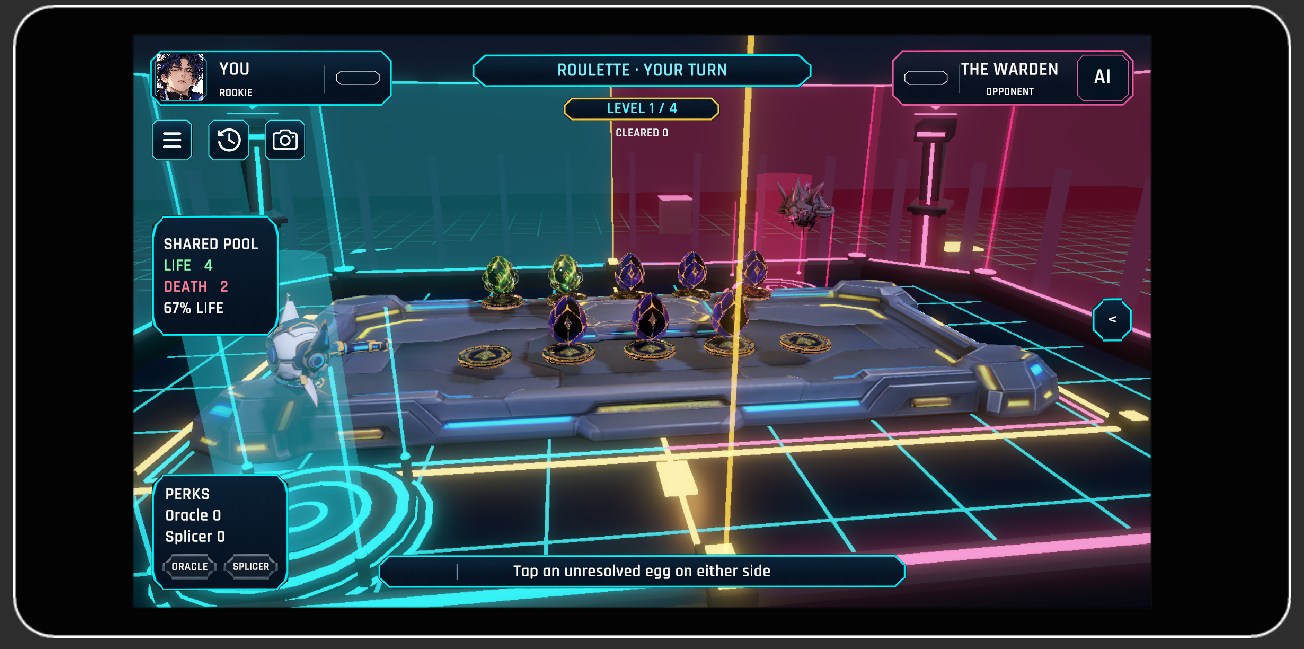
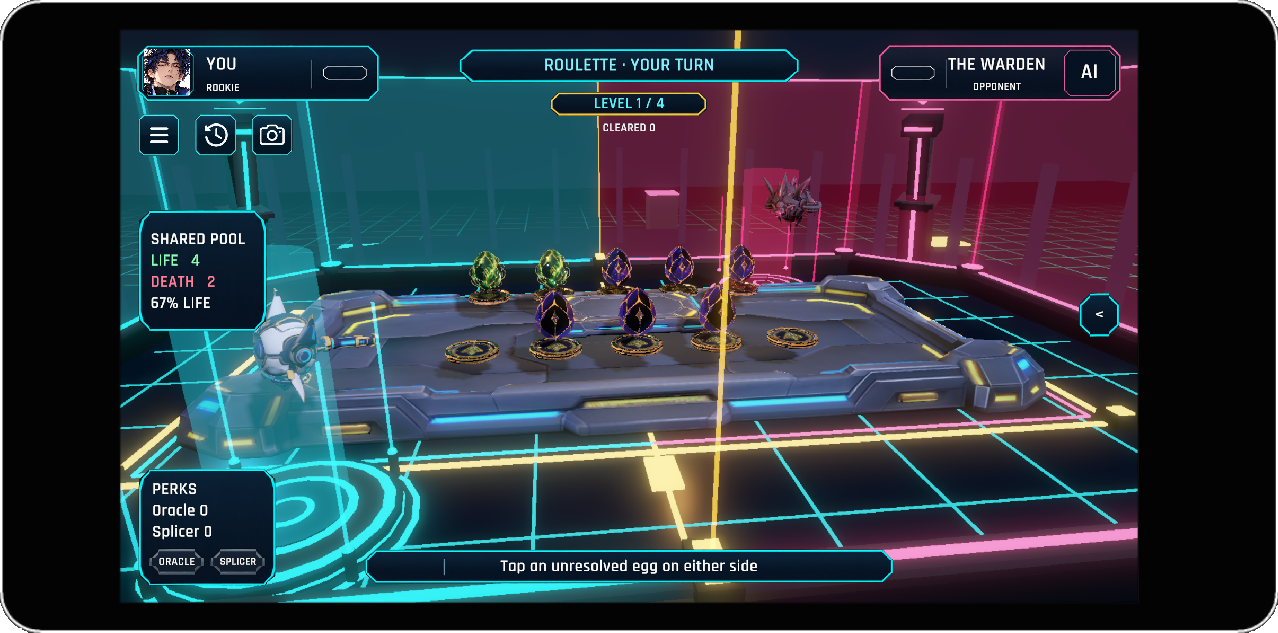
Genesis Roulette: remove grey around phone-frame progress images
Crop the gameplay screenshot and GIF to the phone frame, clear the grey
outside the rounded border, and size each progress image to its own
aspect ratio so it no longer sits in a grey letterboxed box.

diff --git a/src/lib/project-stories.ts b/src/lib/project-stories.ts
@@ -10,7 +10,7 @@ export type ProjectStory = {
   previewArtwork?: { src: string; alt: string; fit?: "cover" | "contain" }[];
   platforms?: { icon: string; label: string }[];
   pillars: { title: string; text: string }[];
-  roadmap: { title: string; text: string; image?: string; alt?: string; position?: string; subtitle?: string; detail?: string; status?: string; caption?: string }[];
+  roadmap: { title: string; text: string; image?: string; alt?: string; position?: string; subtitle?: string; detail?: string; status?: string; caption?: string; ratio?: string; frameless?: boolean }[];
 };
 
 export const projectStories: Record<string, ProjectStory> = {
@@ -39,9 +39,9 @@ export const projectStories: Record<string, ProjectStory> = {
       { title: "A world with stakes", text: "Neptune, 3100. As The Ending draws closer, rival scientists settle real disputes at the Bench, and your hero starts at the very bottom." },
     ],
     roadmap: [
-      { title: "The First Roll", subtitle: "Concept & First Prototype", status: "COMPLETE", text: "Genesis Roulette began as a duel built on chance: a row of identical eggs, a hidden deck of Life and Death bullets, and an element cycle of Fire, Water and Nature.", detail: "This stage shaped the core rules and design pillars that the game is built on.", image: "/images/projects/genesis-roulette-progress-01.png", alt: "Genesis Roulette gameplay on a phone: a roulette turn against The Warden, with the egg table, the shared Life and Death pool and perks" },
-      { title: "Rebuilt for Mobile", subtitle: "Unity Production & Core Systems", status: "COMPLETE", text: "The game moved to Unity and was rebuilt for Android phones in landscape. The rules, opponents, saving, a 4-chapter Story and a 10-level Arcade ladder are in place.", detail: "Button Smash, the Esports Coliseum with its drones, six element monsters, the main menu, player profile, missions and online private rooms were added along the way.", image: "/images/projects/genesis-roulette-progress-02.gif", alt: "Looping capture of Genesis Roulette gameplay: roulette turns, element assignment and a Button Smash" },
-      { title: "Into Testers’ Hands", subtitle: "Closed Alpha & Internal Game Testing", status: "IN PROGRESS", text: "The closed alpha is now being tested on Android by invited testers with access codes. Players can take on the Story, the Arcade ladder and online matches against a friend.", detail: "Testing focuses on match feel, balance, stability and performance on phones. A tester should be able to finish a full Story run, a full Arcade run and an online match without a crash.", image: "/images/projects/genesis-roulette-progress-03.png", alt: "Genesis Roulette tester access screen asking for an access code" },
+      { title: "The First Roll", subtitle: "Concept & First Prototype", status: "COMPLETE", text: "Genesis Roulette began as a duel built on chance: a row of identical eggs, a hidden deck of Life and Death bullets, and an element cycle of Fire, Water and Nature.", detail: "This stage shaped the core rules and design pillars that the game is built on.", image: "/images/projects/genesis-roulette-progress-01.png", alt: "Genesis Roulette gameplay on a phone: a roulette turn against The Warden, with the egg table, the shared Life and Death pool and perks", ratio: "1278 / 633", frameless: true },
+      { title: "Rebuilt for Mobile", subtitle: "Unity Production & Core Systems", status: "COMPLETE", text: "The game moved to Unity and was rebuilt for Android phones in landscape. The rules, opponents, saving, a 4-chapter Story and a 10-level Arcade ladder are in place.", detail: "Button Smash, the Esports Coliseum with its drones, six element monsters, the main menu, player profile, missions and online private rooms were added along the way.", image: "/images/projects/genesis-roulette-progress-02.gif", alt: "Looping capture of Genesis Roulette gameplay: roulette turns, element assignment and a Button Smash", ratio: "480 / 238", frameless: true },
+      { title: "Into Testers’ Hands", subtitle: "Closed Alpha & Internal Game Testing", status: "IN PROGRESS", text: "The closed alpha is now being tested on Android by invited testers with access codes. Players can take on the Story, the Arcade ladder and online matches against a friend.", detail: "Testing focuses on match feel, balance, stability and performance on phones. A tester should be able to finish a full Story run, a full Arcade run and an online match without a crash.", image: "/images/projects/genesis-roulette-progress-03.png", alt: "Genesis Roulette tester access screen asking for an access code", ratio: "1280 / 580" },
       { title: "The Next Chapter", subtitle: "Future Development", status: "UPCOMING", text: "What comes next will be shaped by the results of closed alpha testing.", detail: "Areas being explored include public matchmaking, more opponent artwork and the story scenes of the Circuit. Further milestones will be announced as Genesis Roulette takes shape." },
     ],
   },

diff --git a/app/projects/[slug]/page.tsx b/app/projects/[slug]/page.tsx
@@ -34,7 +34,7 @@ export default async function ProjectPage({
   const icons = [Compass, MoveUpRight, Users, Sparkles];
   const fullStory = slug === "pusaka" || slug === "genesis-roulette";
   return (
-    <main id="main" className={`${styles.page} ${slug === "pusaka" || story.wideProgressImages ? styles.pusakaPage : ""} ${story.wideProgressImages ? styles.wideStages : ""}`}>
+    <main id="main" className={`${styles.page} ${slug === "pusaka" || story.wideProgressImages ? styles.pusakaPage : ""}`}>
       <section className={styles.hero} aria-labelledby="project-title">
         <Image className={styles.heroImage} src={project.image} alt={project.imageAlt} fill loading="eager" fetchPriority="high" sizes="(max-width: 760px) 1320px, 100vw" />
         <div className={styles.heroShade} />
@@ -94,7 +94,7 @@ export default async function ProjectPage({
                 <li key={stage.title}>
                   <span className={styles.timelineDot} aria-hidden="true" />
                   <div className={styles.stageCopy}><p className={styles.stageLabel}>PHASE 0{i + 1} <span>{stage.status ?? "PLANNED DIRECTION"}</span></p><h3>{stage.title}</h3>{stage.subtitle && <p className={styles.stageSubtitle}>{stage.subtitle}</p>}<p>{stage.text}</p>{stage.detail && <p>{stage.detail}</p>}</div>
-                  {stage.image && <figure className={styles.stageImage}><Image src={stage.image} alt={stage.alt ?? ""} fill sizes="(max-width: 760px) 88vw, 520px" unoptimized={stage.image.endsWith(".gif")} style={{ objectPosition: stage.position }} /><figcaption>0{i + 1} / {stage.caption ?? "DEVELOPMENT PROGRESS"}</figcaption></figure>}
+                  {stage.image && <figure className={`${styles.stageImage} ${stage.frameless ? styles.frameless : ""}`} style={stage.ratio ? { aspectRatio: stage.ratio } : undefined}><Image src={stage.image} alt={stage.alt ?? ""} fill sizes="(max-width: 760px) 88vw, 520px" unoptimized={stage.image.endsWith(".gif")} style={{ objectPosition: stage.position }} /><figcaption>0{i + 1} / {stage.caption ?? "DEVELOPMENT PROGRESS"}</figcaption></figure>}
                 </li>
               ))}
             </ol>

diff --git a/app/projects/[slug]/project.module.css b/app/projects/[slug]/project.module.css
@@ -67,7 +67,8 @@
 .stageImage img { object-fit: cover; }
 .pusakaPage .stageImage, .pusakaPage .timeline li:nth-child(even) .stageImage { width: min(100%, 520px); height: auto; aspect-ratio: 16 / 10; margin: 25px 0 0; background: #080c10; }
 .pusakaPage .stageImage img { object-fit: contain; }
-.pusakaPage.wideStages .stageImage, .pusakaPage.wideStages .timeline li:nth-child(even) .stageImage { aspect-ratio: 2 / 1; }
+.pusakaPage .stageImage.frameless, .pusakaPage .timeline li:nth-child(even) .stageImage.frameless { background: none; border: 0; border-radius: 2.6% / 5.2%; }
+.stageImage.frameless figcaption { background: none; text-shadow: 0 1px 8px #000, 0 0 3px #000; }
 .stageImage figcaption { position: absolute; bottom: 0; left: 0; right: 0; background: linear-gradient(transparent, #080c10df); padding: 30px 16px 12px; font-size: 12px; color: #f0e7cf; letter-spacing: .09em; }
 .pillars { display: grid; grid-template-columns: repeat(4, 1fr); gap: 16px; margin-top: 38px; }
 .pillars article { border: 1px solid #c0d0cd38; border-radius: 8px; padding: 26px 23px; background: #080c1045; }
